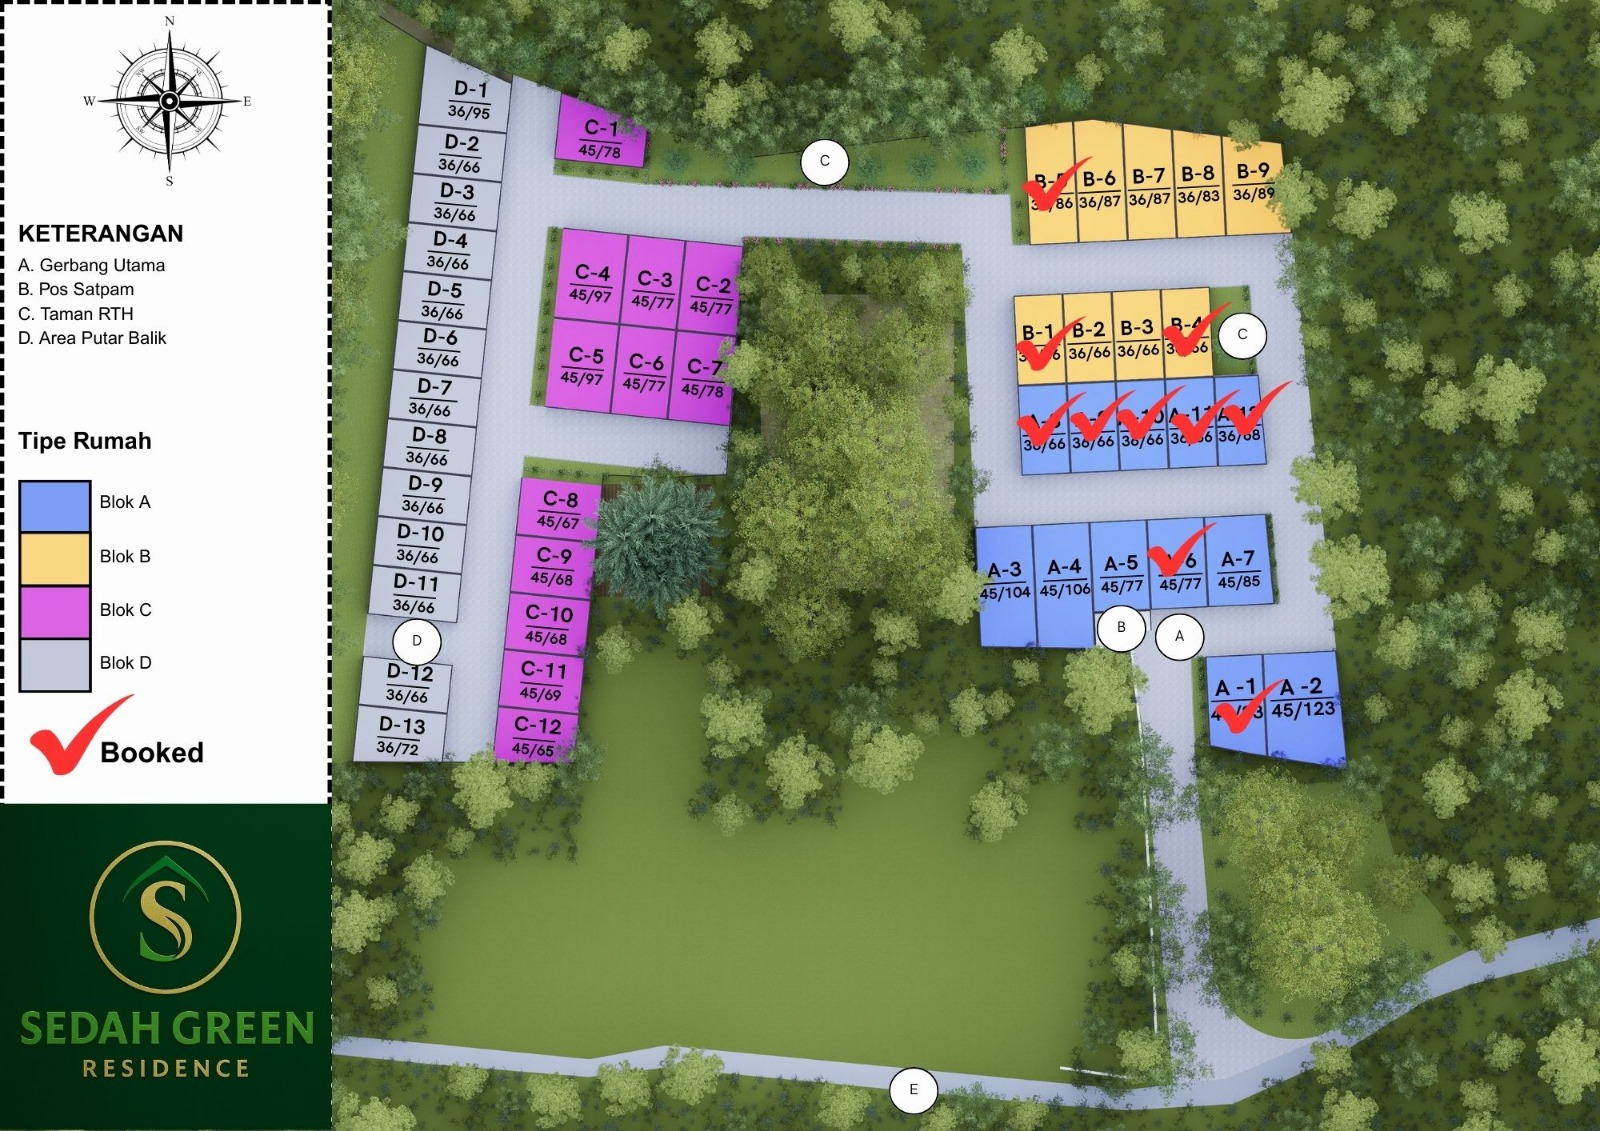
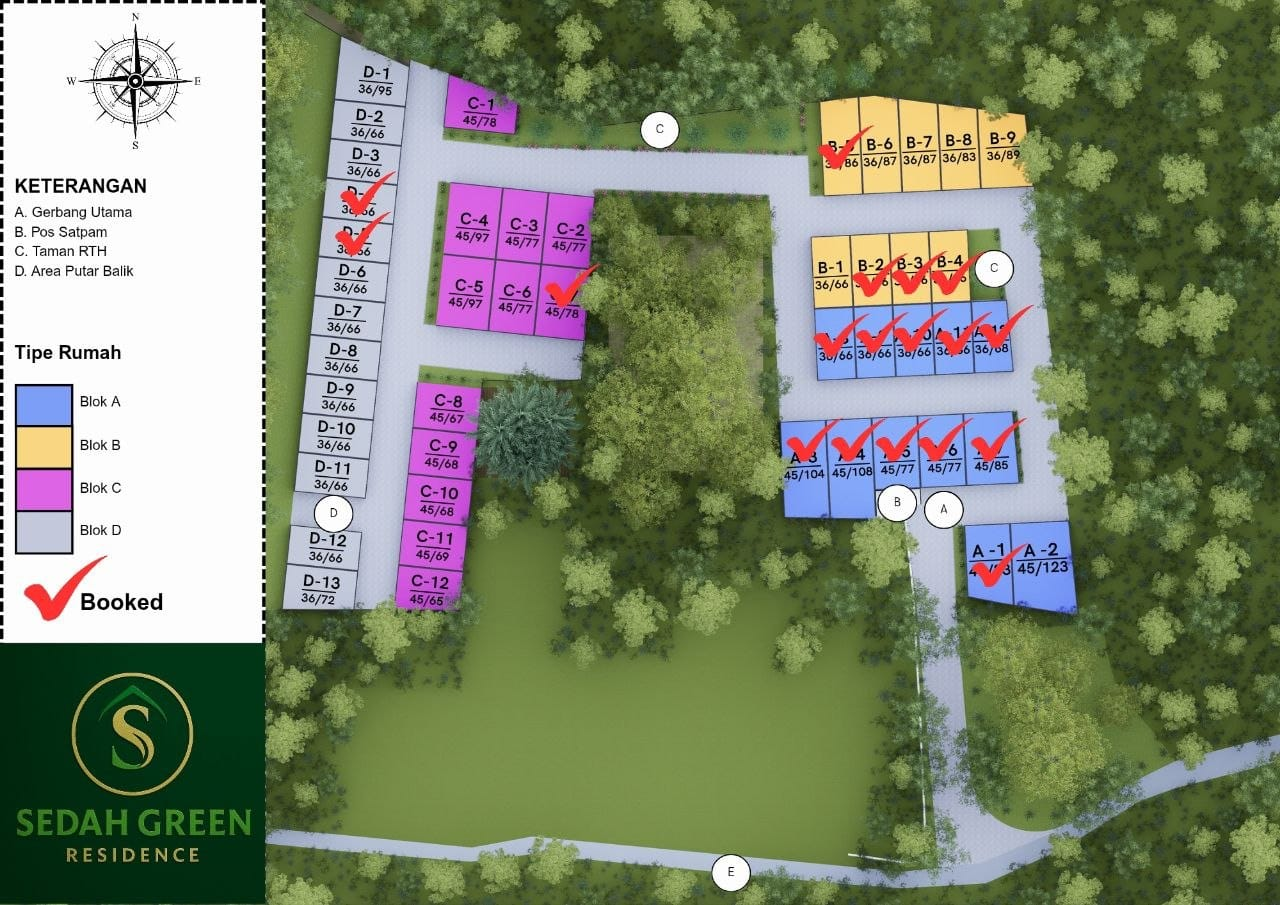
Update calculator unit availability and siteplans

diff --git a/src/components/calculators/GrandSezhaCalculator.jsx b/src/components/calculators/GrandSezhaCalculator.jsx
@@ -10,7 +10,7 @@ const GrandSezhaCalculator = () => {
   const [discount, setDiscount] = useState(20000000); // 50 juta default
   const [cashLunakTerm, setCashLunakTerm] = useState(2); // 2 tahun default
   const [cashLunakDP, setCashLunakDP] = useState(50); // 50% default
-  const [kreditTerm, setKreditTerm] = useState(3); // 3 tahun default
+  const [kreditTerm, setKreditTerm] = useState(5);
   const [kreditDP, setKreditDP] = useState(30); // 30% default
 
   const [calculation, setCalculation] = useState({
@@ -25,33 +25,32 @@ const GrandSezhaCalculator = () => {
   });
 
   // Unit data for Grand Sezha (Type 60, 80, 100)
-  // Note: These are example units. Actual unit data should be provided by the client.
   const unitData = [
-    { "unit": "A-01", "lb": 80, "lt": 89, "hargaCash": 809756931 },
-    { "unit": "A-02", "lb": 80, "lt": 89, "hargaCash": 809756931 },
-    { "unit": "A-03", "lb": 63, "lt": 82, "hargaCash": 717731835 },
-    { "unit": "A-04", "lb": 63, "lt": 82, "hargaCash": 717731835 },
-    { "unit": "A-05", "lb": 63, "lt": 81, "hargaCash": 714044679 },
-    { "unit": "A-06", "lb": 63, "lt": 81, "hargaCash": 714044679 },
-    { "unit": "A-07", "lb": 63, "lt": 80, "hargaCash": 710357522 },
-    { "unit": "A-08", "lb": 63, "lt": 80, "hargaCash": 710357522 },
-    { "unit": "A-09", "lb": 63, "lt": 79, "hargaCash": 706670366 },
+    { "unit": "A-01", "lb": 80, "lt": 89, "hargaCash": 809756931, booked: true },
+    { "unit": "A-02", "lb": 80, "lt": 89, "hargaCash": 809756931, booked: true },
+    { "unit": "A-03", "lb": 63, "lt": 82, "hargaCash": 717731835, booked: true },
+    { "unit": "A-04", "lb": 63, "lt": 82, "hargaCash": 717731835, booked: true },
+    { "unit": "A-05", "lb": 63, "lt": 81, "hargaCash": 714044679, booked: true },
+    { "unit": "A-06", "lb": 63, "lt": 81, "hargaCash": 714044679, booked: true },
+    { "unit": "A-07", "lb": 63, "lt": 80, "hargaCash": 710357522, booked: true },
+    { "unit": "A-08", "lb": 63, "lt": 80, "hargaCash": 710357522, booked: true },
+    { "unit": "A-09", "lb": 63, "lt": 79, "hargaCash": 706670366, booked: true },
   
-    { "unit": "B-01", "lb": 63, "lt": 79, "hargaCash": 706670366 },
-    { "unit": "B-02", "lb": 63, "lt": 79, "hargaCash": 686670366 },
-    { "unit": "B-03", "lb": 63, "lt": 78, "hargaCash": 682983209 },
-    { "unit": "B-04", "lb": 63, "lt": 78, "hargaCash": 682983209 },
-    { "unit": "B-05", "lb": 63, "lt": 78, "hargaCash": 682983209 },
-    { "unit": "B-06", "lb": 63, "lt": 76, "hargaCash": 675608896 },
-    { "unit": "B-07", "lb": 63, "lt": 75, "hargaCash": 671921740 },
-    { "unit": "B-08", "lb": 63, "lt": 75, "hargaCash": 671921740 },
-    { "unit": "B-09", "lb": 63, "lt": 75, "hargaCash": 671921740 },
-    { "unit": "B-10", "lb": 63, "lt": 75, "hargaCash": 671921740 },
+    { "unit": "B-01", "lb": 63, "lt": 79, "hargaCash": 706670366, booked: true },
+    { "unit": "B-02", "lb": 63, "lt": 79, "hargaCash": 686670366, booked: true },
+    { "unit": "B-03", "lb": 63, "lt": 78, "hargaCash": 682983209, booked: true },
+    { "unit": "B-04", "lb": 63, "lt": 78, "hargaCash": 682983209, booked: true },
+    { "unit": "B-05", "lb": 63, "lt": 78, "hargaCash": 682983209, booked: true },
+    { "unit": "B-06", "lb": 63, "lt": 76, "hargaCash": 675608896, booked: true },
+    { "unit": "B-07", "lb": 63, "lt": 75, "hargaCash": 671921740, booked: true },
+    { "unit": "B-08", "lb": 63, "lt": 75, "hargaCash": 671921740, booked: true },
+    { "unit": "B-09", "lb": 63, "lt": 75, "hargaCash": 671921740, booked: true },
+    { "unit": "B-10", "lb": 63, "lt": 75, "hargaCash": 671921740, booked: true },
   
     { "unit": "C-01", "lb": 50, "lt": 73, "hargaCash": 583912426 },
-    { "unit": "C-02", "lb": 50, "lt": 73, "hargaCash": 583912426 },
-    { "unit": "C-03", "lb": 50, "lt": 73, "hargaCash": 583912426 },
-    { "unit": "C-04", "lb": 50, "lt": 72, "hargaCash": 580225270 },
+    { "unit": "C-02", "lb": 50, "lt": 73, "hargaCash": 583912426, booked: true },
+    { "unit": "C-03", "lb": 50, "lt": 73, "hargaCash": 583912426, booked: true },
+    { "unit": "C-04", "lb": 50, "lt": 72, "hargaCash": 580225270, booked: true },
     { "unit": "C-05", "lb": 50, "lt": 72, "hargaCash": 580225270 },
     { "unit": "C-06", "lb": 50, "lt": 72, "hargaCash": 580225270 },
     { "unit": "C-07", "lb": 50, "lt": 71, "hargaCash": 576538113 },
@@ -64,8 +63,10 @@ const GrandSezhaCalculator = () => {
     { "unit": "D-03", "lb": 50, "lt": 68, "hargaCash": 565476644 },
     { "unit": "D-04", "lb": 50, "lt": 68, "hargaCash": 565476644 },
   
-    // Aulia Type 45 Satu Lantai
-    { "unit": "AULIA 1 LANTAI", "lb": 45, "lt": 60, "hargaCash": 480000000 }
+    // Aulia satu lantai; luas dan harga mengikuti tabel yang diberikan.
+    { "unit": "AULIA 1 LANTAI (LT 72 / LB 50)", "lb": 50, "lt": 72, "hargaCash": 580225270, project: "Aulia" },
+    { "unit": "AULIA 1 LANTAI (LT 70 / LB 45)", "lb": 45, "lt": 70, "hargaCash": 500000000, project: "Aulia" },
+    { "unit": "AULIA 1 LANTAI (LT 70 / LB 36)", "lb": 36, "lt": 70, "hargaCash": 480000000, project: "Aulia" }
   ]
   ;
 
@@ -127,11 +128,11 @@ const GrandSezhaCalculator = () => {
     const dpCashLunakAmount = hargaSetelahDiskon * (cashLunakDP / 100);
     const angsuranCashLunakAmount = (hargaSetelahDiskon - dpCashLunakAmount) / (cashLunakTerm * 12);
 
-    // Kredit calculation (8% interest rate)
+    // Kredit uses flat 8% annual interest on the balance after DP.
     const dpKreditAmount = hargaSetelahDiskon * (kreditDP / 100);
     const sisaPinjaman = hargaSetelahDiskon - dpKreditAmount;
     const totalBunga = sisaPinjaman * 0.08 * kreditTerm;
-    const hargaKredit = hargaSetelahDiskon + totalBunga;
+    const hargaKredit = dpKreditAmount + sisaPinjaman + totalBunga;
     const angsuranKreditAmount = (sisaPinjaman + totalBunga) / (kreditTerm * 12);
 
     setCalculation({
@@ -262,8 +263,8 @@ Mohon informasi lebih lanjut.`;
             >
               <option value="">-- Pilih Unit --</option>
               {unitData.map((unit) => (
-                <option key={unit.unit} value={unit.unit}>
-                  {unit.unit} (Type {unit.lb}, LT: {unit.lt})
+                <option key={unit.unit} value={unit.unit} disabled={unit.booked}>
+                  {unit.unit}{unit.project !== 'Aulia' ? ` (Type ${unit.lb}, LT: ${unit.lt})` : ''}{unit.booked ? ' — BOOKED' : ''}
                 </option>
               ))}
             </select>
@@ -282,8 +283,8 @@ Mohon informasi lebih lanjut.`;
             </h4>
             <div className="relative">
               <img 
-                src="/tatakreasi/perumahan-ponorogo-grand-sezha.png" 
-                alt="Site Plan Grand Sezha"
+                src="/grandsezha/siteplan-grand-sezha.jpeg" 
+                alt="Siteplan Grand Sezha dengan status unit booked"
                 className="w-full h-auto rounded-lg border border-slate-200 shadow-sm"
               />
             </div>
@@ -395,7 +396,7 @@ Mohon informasi lebih lanjut.`;
 
                 {/* Kredit */}
                 <div className="bg-white rounded-lg p-3 shadow-lg border-t-4 border-rose-600">
-                  <h3 className="text-sm font-bold text-rose-800 mb-2 text-center">Harga Kredit</h3>
+                  <h3 className="text-sm font-bold text-rose-800 mb-2 text-center">Kredit Syariah</h3>
                   <div className="space-y-2">
                     <div className="flex items-center justify-between gap-1">
                       <label className="text-xs text-slate-600">Jangka Waktu:</label>
@@ -404,8 +405,6 @@ Mohon informasi lebih lanjut.`;
                         onChange={(e) => setKreditTerm(parseInt(e.target.value))}
                         className="w-1/2 px-2 py-1 border rounded text-xs text-center font-medium bg-slate-100"
                       >
-                        <option value={1}>1 Tahun</option>
-                        <option value={2}>2 Tahun</option>
                         <option value={3}>3 Tahun</option>
                         <option value={4}>4 Tahun</option>
                         <option value={5}>5 Tahun</option>
@@ -427,7 +426,7 @@ Mohon informasi lebih lanjut.`;
                   </div>
                   <div className="mt-3 space-y-2">
                     <div>
-                      <p className="text-xs font-medium text-slate-500">Total Harga Kredit</p>
+                      <p className="text-xs font-medium text-slate-500">Harga Akad</p>
                       <p className="text-sm font-bold text-rose-900">
                         {formatCurrency(calculation.hargaKredit)}
                       </p>

diff --git a/src/components/calculators/SedahCalculator.jsx b/src/components/calculators/SedahCalculator.jsx
@@ -34,9 +34,9 @@ const SedahCalculator = () => {
   const unitData = [
     { "unit": "A01", "lb": 45, "lt": 83, "hargaCash": 297573920, "sold": true },
     { "unit": "A02", "lb": 45, "lt": 123, "hargaCash": 391404725 },
-    { "unit": "A03", "lb": 45, "lt": 104, "hargaCash": 346835093 },
+    { "unit": "A03", "lb": 45, "lt": 104, "hargaCash": 346835093, "sold": true },
     { "unit": "A04", "lb": 45, "lt": 106, "hargaCash": 348526633, "sold": true },
-    { "unit": "A05", "lb": 45, "lt": 77, "hargaCash": 283499299 },
+    { "unit": "A05", "lb": 45, "lt": 77, "hargaCash": 283499299, "sold": true },
     { "unit": "A06", "lb": 45, "lt": 77, "hargaCash": 283499299, "sold": true },
     { "unit": "A07", "lb": 45, "lt": 85, "hargaCash": 302265460, "sold": true },
     { "unit": "A08", "lb": 36, "lt": 66, "hargaCash": 246520828, "sold": true },
@@ -45,9 +45,9 @@ const SedahCalculator = () => {
     { "unit": "A11", "lb": 36, "lt": 66, "hargaCash": 246520828, "sold": true },
     { "unit": "A12", "lb": 36, "lt": 68, "hargaCash": 251212368, "sold": true },
 
-    { "unit": "B01", "lb": 36, "lt": 66, "hargaCash": 246520828, "sold": true },
+    { "unit": "B01", "lb": 36, "lt": 66, "hargaCash": 246520828 },
     { "unit": "B02", "lb": 36, "lt": 66, "hargaCash": 246520828, "sold": true },
-    { "unit": "B03", "lb": 36, "lt": 66, "hargaCash": 246520828 },
+    { "unit": "B03", "lb": 36, "lt": 66, "hargaCash": 246520828, "sold": true },
     { "unit": "B04", "lb": 36, "lt": 66, "hargaCash": 246520828, "sold": true },
     { "unit": "B05", "lb": 36, "lt": 86, "hargaCash": 293436230, "sold": true },
     { "unit": "B06", "lb": 36, "lt": 87, "hargaCash": 295782001 },
@@ -61,7 +61,7 @@ const SedahCalculator = () => {
     { "unit": "C04", "lb": 45, "lt": 97, "hargaCash": 330414702 },
     { "unit": "C05", "lb": 45, "lt": 97, "hargaCash": 330414702 },
     { "unit": "C06", "lb": 45, "lt": 77, "hargaCash": 283499299 },
-    { "unit": "C07", "lb": 45, "lt": 78, "hargaCash": 285845069 },
+    { "unit": "C07", "lb": 45, "lt": 78, "hargaCash": 285845069, "sold": true },
     { "unit": "C08", "lb": 45, "lt": 67, "hargaCash": 275041598 },
     { "unit": "C09", "lb": 45, "lt": 68, "hargaCash": 275887368 },
     { "unit": "C10", "lb": 45, "lt": 68, "hargaCash": 275887368 },
@@ -71,8 +71,8 @@ const SedahCalculator = () => {
     { "unit": "D01", "lb": 36, "lt": 95, "hargaCash": 314548162 },
     { "unit": "D02", "lb": 36, "lt": 66, "hargaCash": 246520828 },
     { "unit": "D03", "lb": 36, "lt": 66, "hargaCash": 246520828 },
-    { "unit": "D04", "lb": 36, "lt": 66, "hargaCash": 246520828 },
-    { "unit": "D05", "lb": 36, "lt": 66, "hargaCash": 246520828 },
+    { "unit": "D04", "lb": 36, "lt": 66, "hargaCash": 246520828, "sold": true },
+    { "unit": "D05", "lb": 36, "lt": 66, "hargaCash": 246520828, "sold": true },
     { "unit": "D06", "lb": 36, "lt": 66, "hargaCash": 246520828 },
     { "unit": "D07", "lb": 36, "lt": 66, "hargaCash": 246520828 },
     { "unit": "D08", "lb": 36, "lt": 66, "hargaCash": 246520828 },
@@ -300,7 +300,7 @@ Mohon informasi lebih lanjut.`;
                   disabled={unit.sold}
                   style={unit.sold ? { color: '#ef4444', fontStyle: 'italic' } : {}}
                 >
-                  {unit.unit} {unit.sold ? '(SOLD)' : ''}
+                  {unit.unit} {unit.sold ? '(BOOKED)' : ''}
                 </option>
               ))}
             </select>
